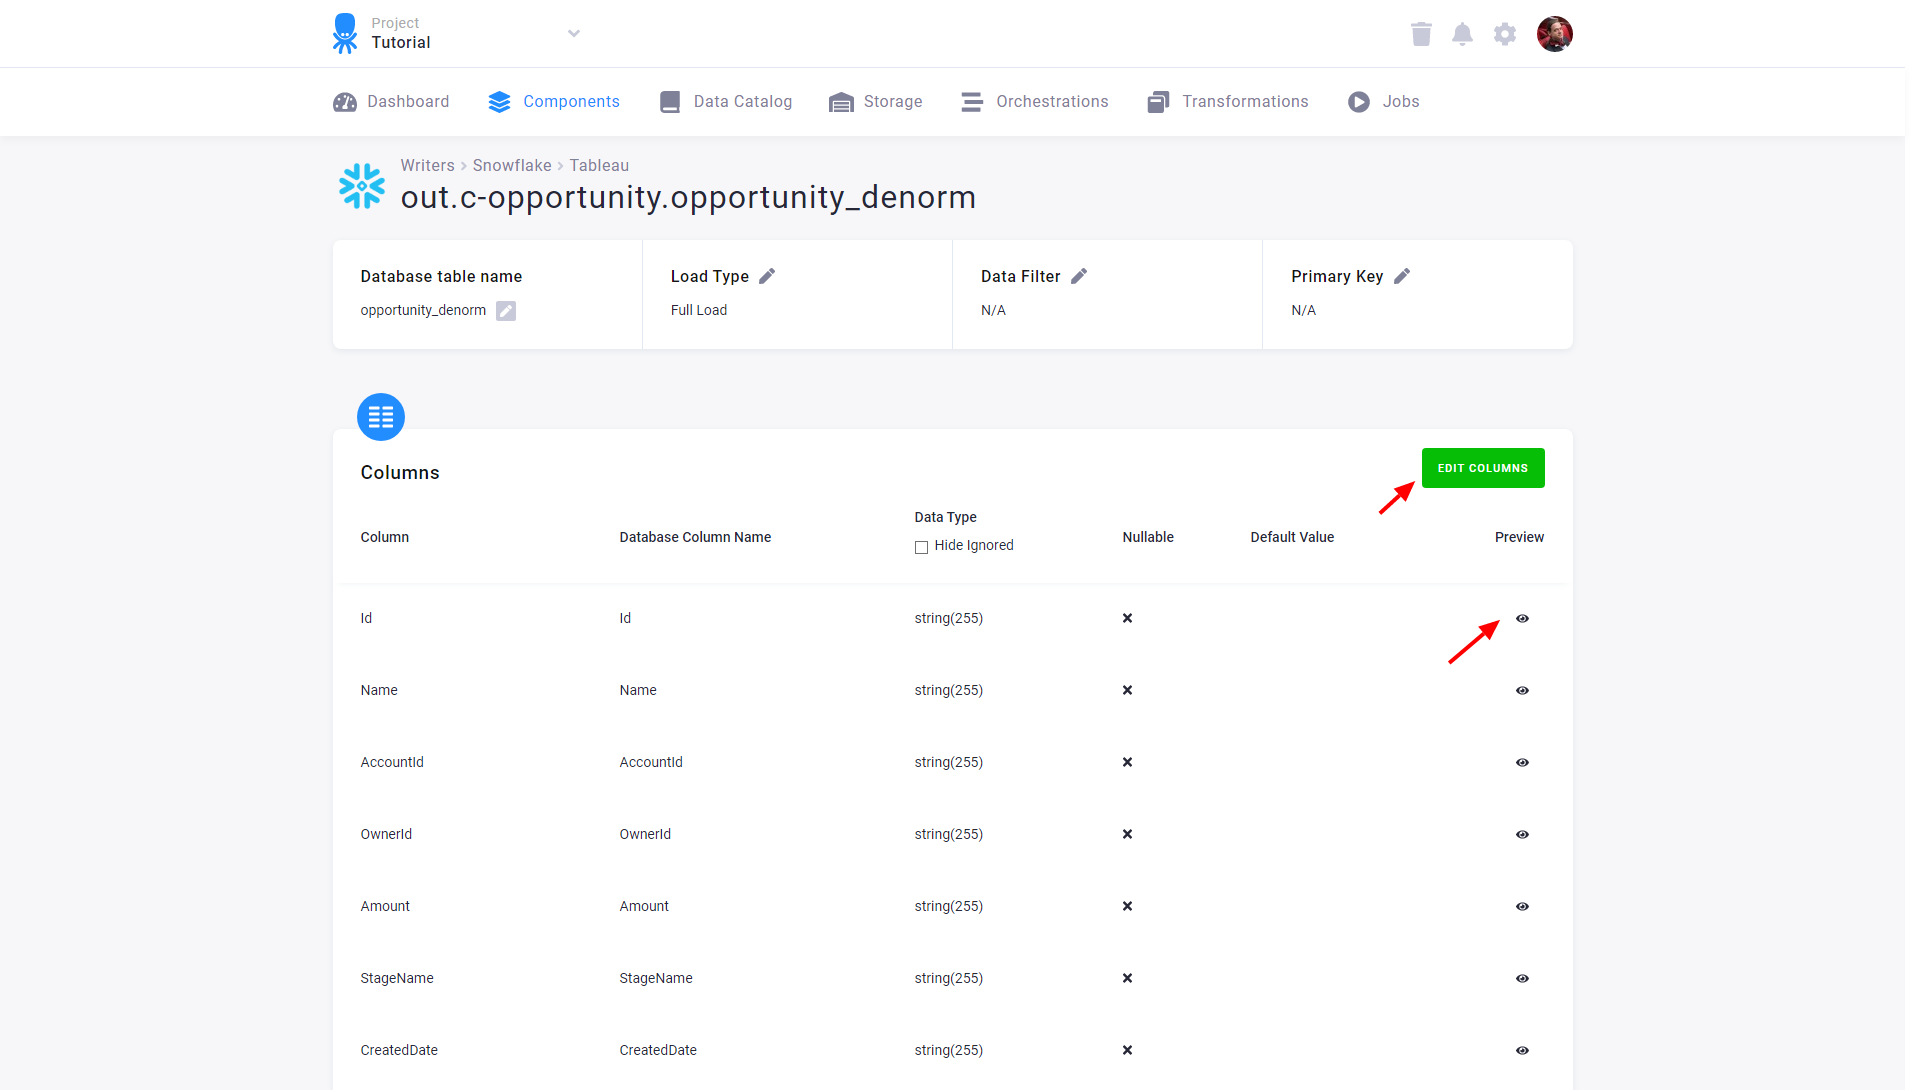
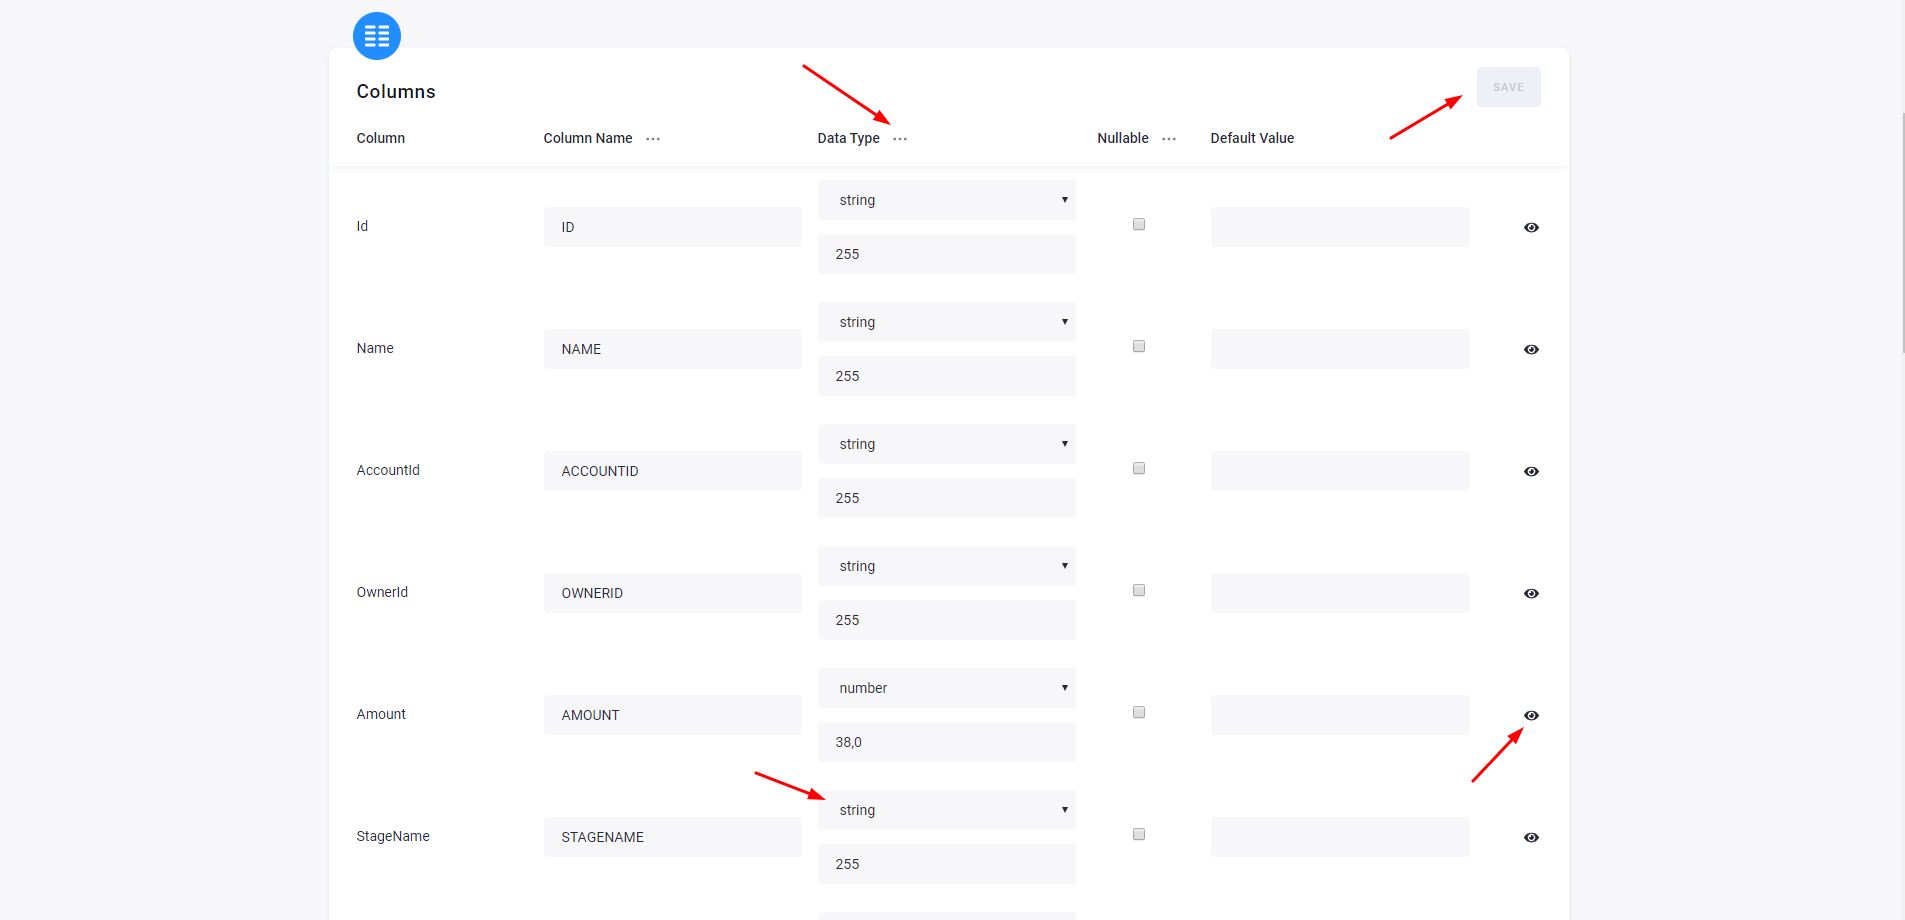
update write tutorial

diff --git a/tutorial/write/index.md b/tutorial/write/index.md
@@ -85,19 +85,14 @@ Select the table `out.c-opportunity.opportunity_denorm` and click **Add Table**:
 ![Screenshot - Select table](/tutorial/write/tableau-select-table-2.png)
 
 In the next step, you can specify properties of the columns in the target database, like `Name` and `Data Type`.
-Use the preview column to peek at the column data. Click the **Edit Columns** button to change settings.
-
-{: .image-popup}
-![Screenshot - Snowflake View Columns](/tutorial/write/snowflake-columns.png)
-
-Most columns in the `opportunity_denorm` table are strings (characters). Start 
-with `Set All Types to:` and select `string` to set them quickly. 
+Use the preview column to peek at the column data. Most columns in the `opportunity_denorm` table are strings (characters).
+Start with `Set All Columns to:` and select `string` to set them quickly. 
 Then **Preview** the content of each column and set its type accordingly.
 For the purpose of this tutorial, it is enough to set the *Amount* column to the type `number`.
 Don't forget to **Save** the settings.
 
 {: .image-popup}
-![Screenshot - Snowflake Edit Columns](/tutorial/write/snowflake-columns-2.png)
+![Screenshot - Snowflake Edit Columns](/tutorial/write/snowflake-columns.png)
 
 When done, go back to the configuration and click on **Run Component** to write the 
 data to the provisioned database.
